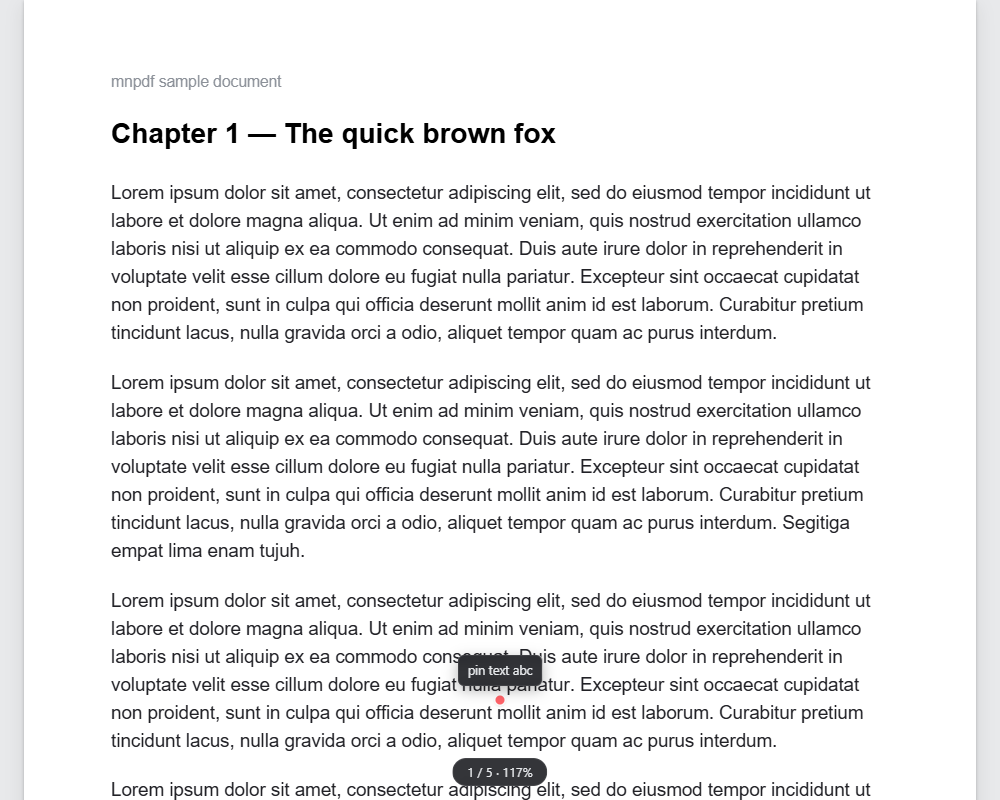
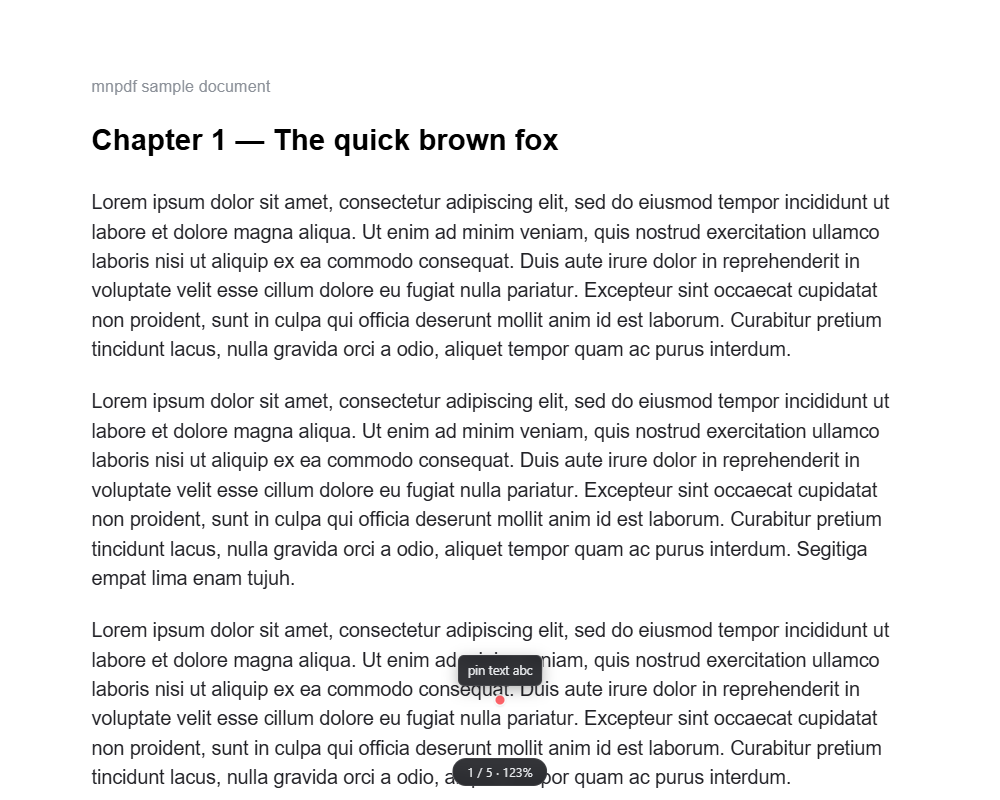
v0.3: stable zoom editor + Zoom-to menu, live pin dot + readable pin editor, highlight replace-on-overlap, exact fit-width default, reopen last file

diff --git a/src/viewer.js b/src/viewer.js
@@ -322,12 +322,14 @@ export function fitZoom() {
   const h = v ? v[3] - v[1] : 792;
   const swap = ((S.baseRot[S.pageList[i]?.src] || 0) % 180) !== 0;
   const pageW = (swap ? h : w) * CSS_PER_PT;
-  return clamp((scroller.clientWidth - 48) / pageW, 0.25, 6);
+  // exact: the white paper touches the window borders side-to-side
+  return clamp(scroller.clientWidth / pageW, 0.25, 6);
 }
 
 // ---- pill / goto ----
 
 export function updatePill(sticky = false) {
+  if (gotoEdit) return; // never touch content/timers while the editor is open
   if (!wraps.length) { pill.classList.add('hidden'); return; }
   const i = currentPageIdx();
   const cur = i + 1;
@@ -346,24 +348,28 @@ export function updatePill(sticky = false) {
 // mode 'page': type a page number. mode 'zoom': type a percentage.
 export function pillGotoMode(mode = 'page') {
   if (gotoEdit) return;
+  clearTimeout(pillTimer); // the auto-hide must not kill the editor mid-typing
   const saved = pill.textContent;
-  pill.classList.remove('hidden');
+  pill.classList.remove('hidden', 'fading');
   pill.innerHTML = '';
   const inp = document.createElement('input');
   if (mode === 'zoom') {
     inp.value = String(Math.round(S.zoom * 100));
-    inp.title = 'Zoom percent (25–600)';
+    inp.title = 'Zoom percent (25–600) — Enter to apply, Esc to cancel';
   } else {
     inp.value = pill.dataset.cur || '1';
-    inp.title = 'Page number';
+    inp.title = 'Page number — Enter to go, Esc to cancel';
   }
   pill.appendChild(inp);
   inp.focus();
   inp.select();
+  gotoEdit = { mode };
   const done = (ok) => {
+    if (!gotoEdit) return;
+    gotoEdit = null;
     const v = parseFloat(inp.value);
     pill.textContent = saved;
-    gotoEdit = null;
+    updatePill(true); // restore the label and restart the fade cleanly
     if (!ok || !Number.isFinite(v)) return;
     if (mode === 'zoom') {
       if (v >= 25 && v <= 600) setZoom(v / 100, zoomAnchorCenter());
@@ -371,7 +377,6 @@ export function pillGotoMode(mode = 'page') {
       goToDisplayPage(v - 1);
     }
   };
-  gotoEdit = { done };
   inp.addEventListener('keydown', (e) => {
     e.stopPropagation();
     if (e.key === 'Enter') done(true);
@@ -421,6 +426,9 @@ export function init() {
     const r = pill.getBoundingClientRect();
     pillGotoMode(e.clientX - r.left > r.width * 0.55 ? 'zoom' : 'page');
   });
+  // don't fade out while the user is aiming at / hovering the pill
+  pill.addEventListener('mouseenter', () => { if (!gotoEdit) clearTimeout(pillTimer); });
+  pill.addEventListener('mouseleave', () => { if (!gotoEdit) updatePill(true); });
 
   // touchscreen pinch-zoom (trackpad pinch arrives as ctrl+wheel, above)
   let pinch = null;

diff --git a/src/annos.js b/src/annos.js
@@ -31,7 +31,8 @@ function renderWrapOverlays(i, w, vp) {
         d.style.height = Math.abs(v[3] - v[1]) + 'px';
         hlFrag.appendChild(d);
       }
-    } else if (a.type === 'pin' && a.id !== editingId) {
+    } else if (a.type === 'pin') {
+      // dot stays visible even while its text is being edited
       const d = el('div', 'pin');
       d.dataset.id = a.id;
       const [x, y] = vp.convertToViewportPoint(a.x, a.y);
@@ -105,9 +106,21 @@ export function selectionInfo() {
   };
 }
 
+// two pdf-space rects intersect (0.5pt tolerance so line-adjacent rects don't count)
+function rectsOverlap(a, b) {
+  return a[0] < b[2] - 0.5 && a[2] > b[0] + 0.5 && a[1] < b[3] - 0.5 && a[3] > b[1] + 0.5;
+}
+
 export function addHighlight(info, color) {
   S.hlColor = color;
-  pushOp({ kind: 'add', ann: newHighlight(info.srcIdx, info.rects, color) });
+  const ann = newHighlight(info.srcIdx, info.rects, color);
+  const replaced = S.anns.filter(
+    (a) =>
+      a.type === 'hl' && a.page === info.srcIdx &&
+      a.rects.some((r) => info.rects.some((n) => rectsOverlap(n, r))),
+  );
+  if (replaced.length) pushOp({ kind: 'hlreplace', ann, replaced });
+  else pushOp({ kind: 'add', ann });
   window.getSelection()?.removeAllRanges();
 }
 
@@ -193,13 +206,22 @@ export function startPinEdit(ann, isNew = false) {
   editingId = ann.id;
   hidePop();
   const [x, y] = vp.convertToViewportPoint(ann.x, ann.y);
+  const layer = w.querySelector('.note-layer');
+  // show the dot immediately so you can see where the pin landed
+  let preview = null;
+  if (isNew) {
+    preview = el('div', 'pin preview');
+    preview.style.left = x + 'px';
+    preview.style.top = y + 'px';
+    layer.appendChild(preview);
+  }
   const ta = el('textarea', 'pin-ta');
-  ta.style.left = x + 'px';
-  ta.style.top = y + 'px';
+  ta.style.left = x + 9 + 'px';
+  ta.style.top = y + 9 + 'px';
   ta.value = ann.text || '';
   ta.placeholder = 'Type, then Ctrl+Enter';
   ta.spellcheck = false;
-  w.querySelector('.note-layer').appendChild(ta);
+  layer.appendChild(ta);
   requestAnimationFrame(() => ta.focus());
 
   let closed = false;
@@ -208,6 +230,8 @@ export function startPinEdit(ann, isNew = false) {
     closed = true;
     const v = ta.value.replace(/\s+$/, '');
     ta.remove();
+    preview?.remove();
+    preview = null;
     editingId = null;
     if (commit) {
       if (isNew) {

diff --git a/src/main.js b/src/main.js
@@ -39,6 +39,7 @@ function menuGeneral(e) {
           'sep',
           { label: 'Zoom in', hint: '+', fn: cmd.zoomIn },
           { label: 'Zoom out', hint: '−', fn: cmd.zoomOut },
+          { label: 'Zoom to…', fn: () => viewer.pillGotoMode('zoom') },
           { label: 'Fit width', hint: 'Ctrl+0', fn: cmd.zoomFit },
         ]
       : []),
@@ -73,6 +74,7 @@ function menuForPage(e, wrapEl) {
     'sep',
     { label: 'Zoom in', fn: cmd.zoomIn },
     { label: 'Zoom out', fn: cmd.zoomOut },
+    { label: 'Zoom to…', fn: () => viewer.pillGotoMode('zoom') },
     { label: 'Fit width', fn: cmd.zoomFit },
     'sep',
     { label: 'Find…', hint: 'Ctrl+F', fn: () => search.open() },
@@ -218,6 +220,12 @@ async function boot() {
   const initial = await platform.initialPath();
   if (initial) {
     try { await cmd.openPath(initial); } catch {}
+  } else {
+    // plain launch: reopen the last document
+    const last = await platform.kvGet('lastPath');
+    if (last) {
+      try { await cmd.openPath(last); } catch {}
+    }
   }
 }
 

diff --git a/src/style.css b/src/style.css
@@ -44,13 +44,13 @@ html, body {
   position: relative;
   width: max-content;
   margin: 0 auto;
-  padding: 18px 0 40px;
+  padding: 8px 0 30px;
   min-width: 100%;
 }
 
 .pagewrap {
   position: relative;
-  margin: 0 auto 14px;
+  margin: 0 auto 8px;
   background: #fff;
   box-shadow: 0 1px 3px rgba(0, 0, 0, 0.22), 0 6px 18px rgba(0, 0, 0, 0.10);
 }
@@ -112,7 +112,9 @@ html, body {
   line-height: 1.3;
   font-family: Helvetica, Arial, "Segoe UI", sans-serif;
   font-size: 13px;
-  background: rgba(255, 255, 255, 0.92);
+  color: #17181c;
+  caret-color: #17181c;
+  background: rgba(255, 255, 255, 0.94);
   border: 1px solid var(--accent);
   border-radius: 4px;
   padding: 4px 6px;
@@ -122,6 +124,11 @@ html, body {
   outline: none;
   box-shadow: 0 4px 16px rgba(0, 0, 0, 0.22);
 }
+
+.pin-ta::placeholder { color: rgba(23, 24, 28, 0.45); }
+
+/* the dot of a pin whose editor is open (new pins show it immediately) */
+.pin.preview { pointer-events: none; }
 
 #pinpop {
   position: fixed;

diff --git a/src/state.js b/src/state.js
@@ -69,6 +69,17 @@ function applyOp(op, fwd) {
       if (fwd) S.anns.push(op.ann);
       else S.anns = S.anns.filter((a) => a.id !== op.ann.id);
       break;
+    case 'hlreplace':
+      // new highlight replaces every highlight it overlaps (one undo step)
+      if (fwd) {
+        const gone = new Set(op.replaced.map((a) => a.id));
+        S.anns = S.anns.filter((a) => !gone.has(a.id));
+        S.anns.push(op.ann);
+      } else {
+        S.anns = S.anns.filter((a) => a.id !== op.ann.id);
+        S.anns.push(...op.replaced);
+      }
+      break;
     case 'del':
       if (fwd) S.anns = S.anns.filter((a) => a.id !== op.ann.id);
       else S.anns.push(op.ann);

diff --git a/src/commands.js b/src/commands.js
@@ -123,6 +123,9 @@ async function openBytes(bytes, path, name) {
   viewer.updatePill(true);
   viewer.setTopChangeFn(() => persistDocSoon());
   updateTitle();
+  if (path && !String(path).startsWith('blob:')) {
+    platform.kvSet('lastPath', path).catch(() => {}); // for plain-launch reopen
+  }
   toast(`${name} · ${pdf.numPages} page${pdf.numPages > 1 ? 's' : ''}`, 1200);
 }
 

diff --git a/README.md b/README.md
@@ -14,9 +14,9 @@ Built with [Tauri 2](https://tauri.app) + [pdf.js](https://mozilla.github.io/pdf
 | Open a PDF | Ctrl+O, right-click → *Open…*, drop a file on the window, or `mnpdf.exe path\to.pdf` |
 | Scroll | wheel / two-finger touchpad scroll |
 | Zoom | pinch (touch screen or touchpad), Ctrl+wheel, `+` / `-`, `Ctrl+0` fit width, `0` = 100% |
-| Exact zoom | scroll a little, click the **right half** of the page pill, type a percent (25–600) |
+| Exact zoom | right-click → *Zoom to…*, or click the **right half** of the page pill; type a percent (25–600) |
 | Go to page | Ctrl+G, or click the **left half** of the page pill |
-| Highlight text | select text (nothing pops up), then **right-click** the selection → pick a color |
+| Highlight text | select text (nothing pops up), then **right-click** the selection → pick a color. Highlighting over an existing highlight **replaces** it (no stacking) |
 | Copy text | select text → right-click → *Copy text* (or Ctrl+C) |
 | Delete a highlight | right-click on the highlight → *Delete highlight* |
 | Text pins | right-click anywhere on a page → *Add pin here* → type → Ctrl+Enter. A small red dot stays on the page; **hovering shows the text**, clicking the dot re-opens the editor, right-click offers Edit/Delete |
@@ -34,6 +34,10 @@ There is no title bar. The window chrome lives entirely in the right-click menu.
 The interface follows the OS light/dark theme automatically. Pages stay as printed;
 only the chrome changes.
 
+Documents open at **fit width — the paper touches the window borders side-to-side**
+(Ctrl+0 re-applies it anytime). Launching mnpdf without arguments **reopens the last
+document** at its saved zoom/page.
+
 ## Where your edits live
 
 - **Highlights** are baked into the PDF when you save (permanently, like ink).
@@ -41,6 +45,7 @@ only the chrome changes.
   lives in a small JSON sidecar per document (app data folder) together with your
   zoom level, page, and unsaved highlights. Pins survive closing, reopening, and
   saving, but they exist only inside mnpdf and won't appear in other viewers.
+  **If you share the PDF, nobody sees your pin text — it isn't in the file.**
 
 Unsaved highlights are also kept in the sidecar, so closing accidentally loses
 nothing. On close with unsaved highlights you get one plain **"Save changes?" —
